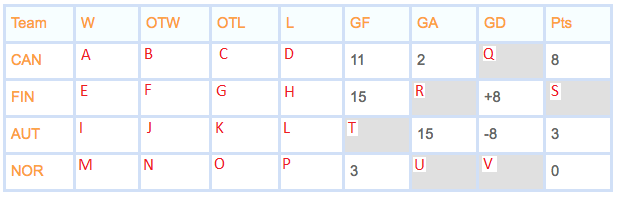
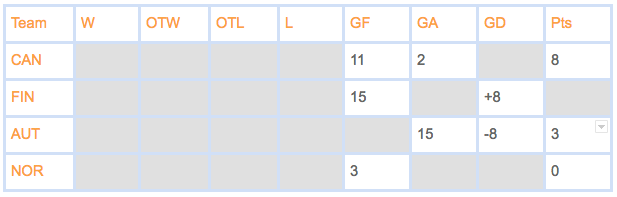
Final Wk18 changes

diff --git a/pages/8-18-freezing-sports.md b/pages/8-18-freezing-sports.md
@@ -73,21 +73,23 @@ Switzerland lost to Sweden (who won all their games), and we know Switzerland wo
 :::
 
 ::: problem id=1_3 marks=5
-__1.3.__ The final table in Group B (Canada, Finland, Austria, Norway) looked like this, only some of the numbers are missing. Can you fill them in? (Remember, for Goal Difference you need to use + and – immediately before the number, eg +1 or -1.)
+__1.3.__ The final table in Group B (Canada, Finland, Austria, Norway) looked like this, but I have blanked out some of the numbers.
 
-| Team | W                  | OTW                | OTL                | L                  | GF                 | GA                  | GD                    | Pts |
-| ---- | ------------------ | ------------------ | ------------------ | ------------------ | ------------------ | ------------------- | --------------------- | --- |
-| CAN  | <input solution=2> | <input solution=1> | <input solution=0> | <input solution=0> | 11                 | 2                   | <input solution="+9"> | 8 |
-| FIN  | <input solution=2> | <input solution=0> | <input solution=1> | <input solution=0> | 15                 | <input solution=7>  | +8                    | <input solution=7> |
-| AUT  | <input solution=1> | <input solution=0> | <input solution=0> | <input solution=2> | <input solution=7> | 15                  | –8                    | 3 |
-| NOR  | <input solution=0> | <input solution=0> | <input solution=0> | <input solution=3> | 3                  | <input solution=12> | <input solution="-9"> | 0 |
-{.grid}
+![](/resources/8-18-freezing-sports/1-ice-hockey.jpg)
 
-*Hint: do the left hand side of the table first*
+How did Austria get its 3 points?
+
+* [x] 1 win and 2 losses
+* [ ] 1 OTW, 1 OTL and 1 loss
+* [ ] 3 OTLs
 
 ---
 
-To win eight points, Canada must have two wins and an OTW. To get no points, Norway must have lost all three matches. Austria must then have beaten Norway and lost their remaining two matches (to Finland and Canada). Canada’s OTW was therefore over Finland, making the left-hand part of the table look like this:
+You can actually fill in all the gaps, as explained below. However, to answer the question about Austria, you would only need think about the next paragraph.  
+
+To get no points, Norway must have lost all three matches, including their match to Austria. So, if Austria beat Norway, then they lost their remaining two matches (to Finland and Canada).  
+
+To win eight points, Canada must have two wins (against Austria and Norway) and an OTW. Canada’s OTW was therefore over Finland, making the left-hand part of the table look like this:
 
 ![](/resources/8-18-freezing-sports/1-table-left-answers.png)
 

diff --git a/pages/7-18-downhill-from-here.md b/pages/7-18-downhill-from-here.md
@@ -57,11 +57,9 @@ medal-winning team (USA) were:
 * 51.19 seconds
 * 51.52 seconds
 
-What was their total time, in minutes and seconds (eg 2 minutes 8.36 seconds)?
+What is the total time for the four runs in seconds? (please answer to two decimal places)
 
-| minutes | seconds |
-| <input type="text" solution="3"/> | <input type="text" solution="24.46"/> |
-{.grid}
+<input type="text" solution="204.46"/>
 :::
 
 ::: problem id=1_2 marks=1
@@ -90,19 +88,14 @@ target time, is 51.37 seconds. In fact, Germany’s final heat time was 51:36!
 __1.3__ __Gold medal puzzle:__ The USA’s second heat time of 50.86 seconds was a track
 record.
 
-What was their average speed in metres per second? Remember, the track was
-1,450 metres long
+What was their average speed in metres per second? Give your answer to the nearest whole number, and remember that the track was
+1,450 metres long.
 
-Can you convert that to miles per hour? (Note: there are 1,609.344 metres in a mile AND please give your answer to two decimal places.)
-
-| m/s  | mph |
-| <input type="text" solution="28.51"/> | <input type="text" solution="63.77"/> |
+<input type="number" solution="29"/> m/s
 
 ---
 
-1,450m in 50.86s is 1450 ÷ 50.86 = 28.51m/s. In 3,600 seconds, they would travel
-about 102,636 metres, so they’re moving at 102,636 metres per hour. Dividing
-this by 1,609.344 gives 63.77mph.
+Solutions 1,450/50.86 = 28.5096, which is closest to 29 m/s.
 :::
 
 
